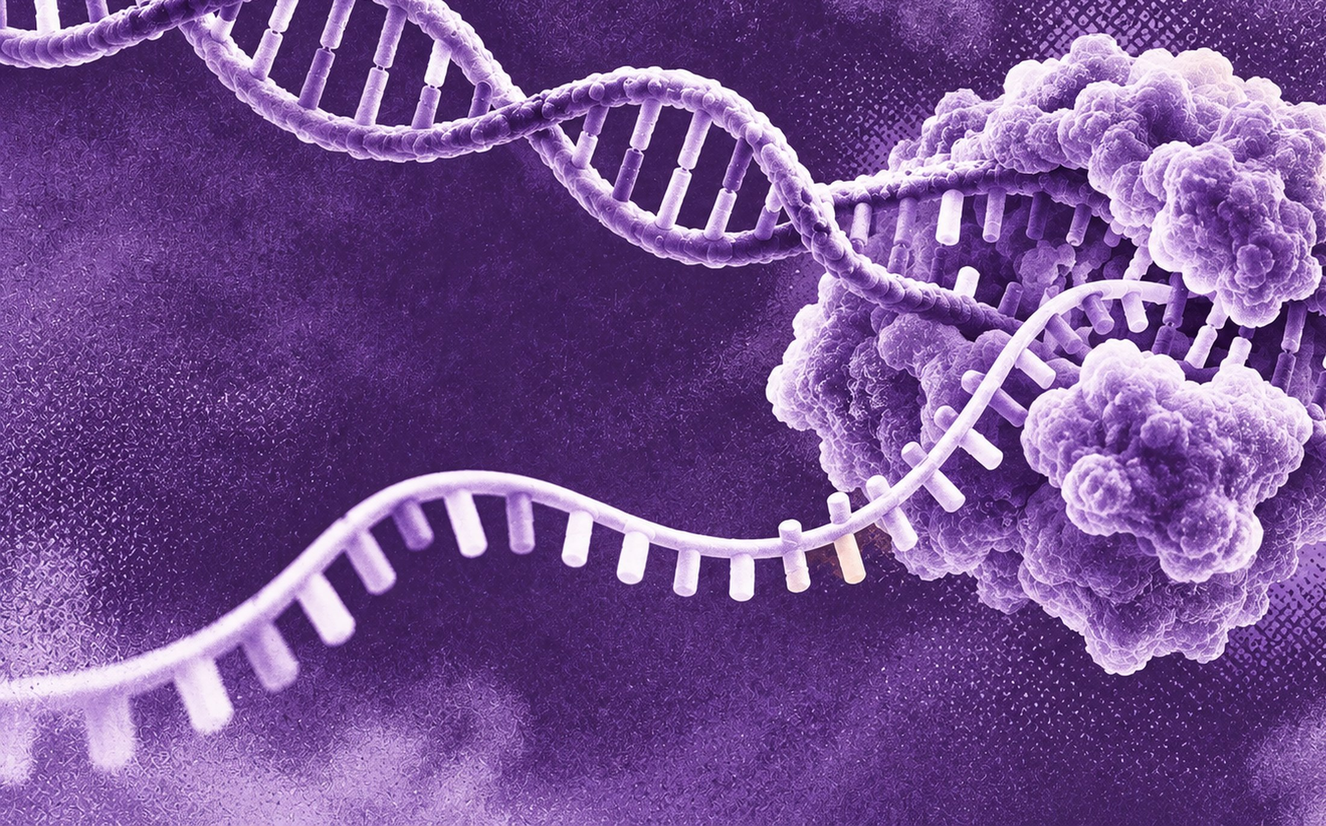
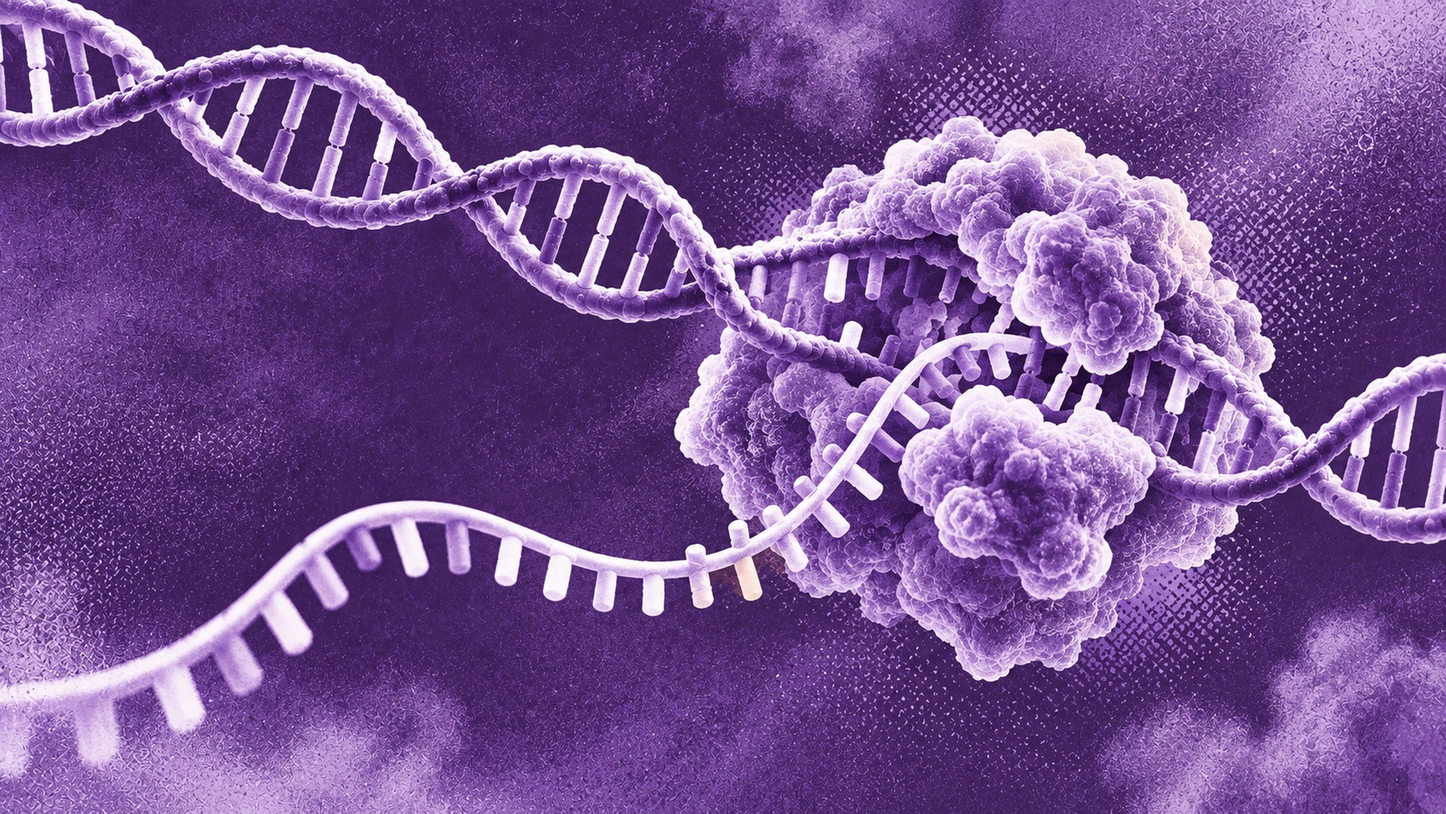
Update hero section styles and background image for improved layout and aesthetics

diff --git a/assets/css/components.css b/assets/css/components.css
@@ -141,7 +141,8 @@
 /* ---------- Hero ---------- */
 .hero {
   position: relative;
-  min-height: 100svh;
+  min-height: 100vh;
+  min-height: 100dvh;
   display: flex;
   align-items: center;
   padding-top: var(--nav-h);
@@ -161,7 +162,7 @@
   width: 100%;
   height: 100%;
   object-fit: cover;
-  object-position: 46% 50%;
+  object-position: 58% 42%;
 }
 
 /* Colour the transcription story: the nascent RNA strand (lower-left, where

diff --git a/assets/css/responsive.css b/assets/css/responsive.css
@@ -42,7 +42,7 @@
   .hero { align-items: center; text-align: left; }
   .hero__meta { flex-direction: column; align-items: flex-start; }
 
-  .hero__art-img { object-position: 20% 50%; }
+  .hero__art-img { object-position: 40% 32%; }
   .hero__rna-accent {
     background: linear-gradient(200deg,
       rgba(122, 92, 168, 0.5) 0%,
